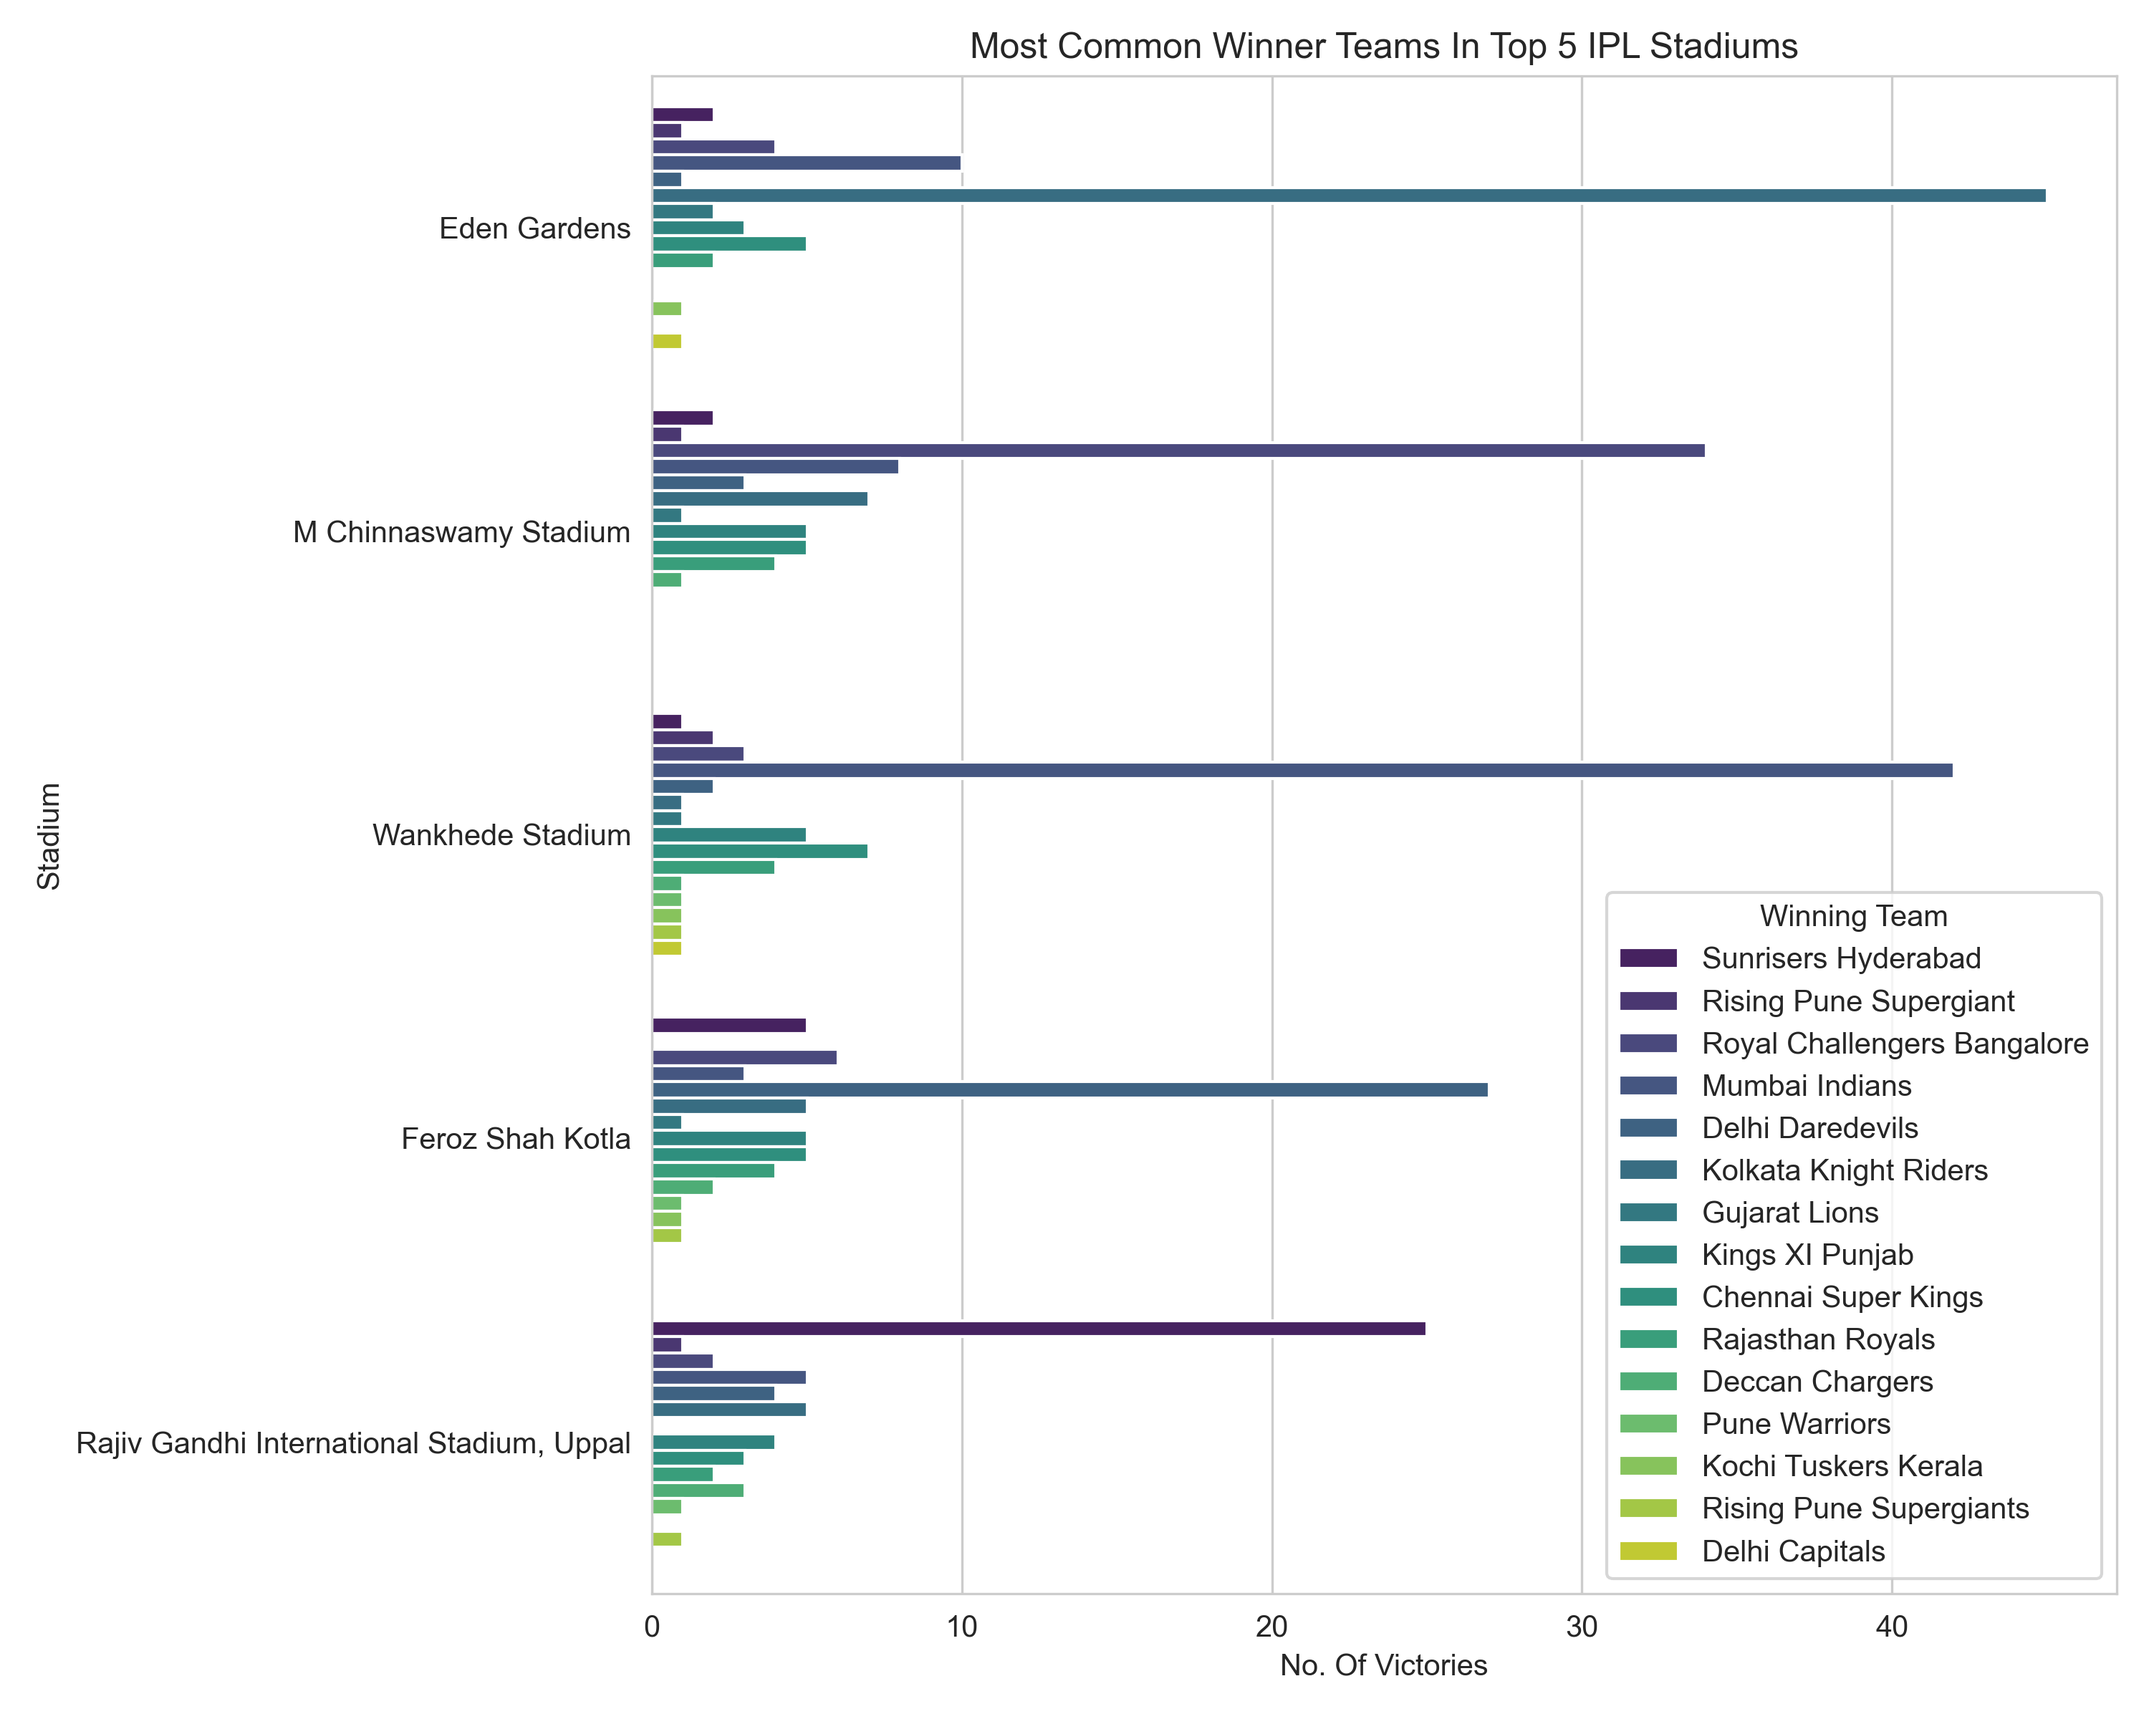
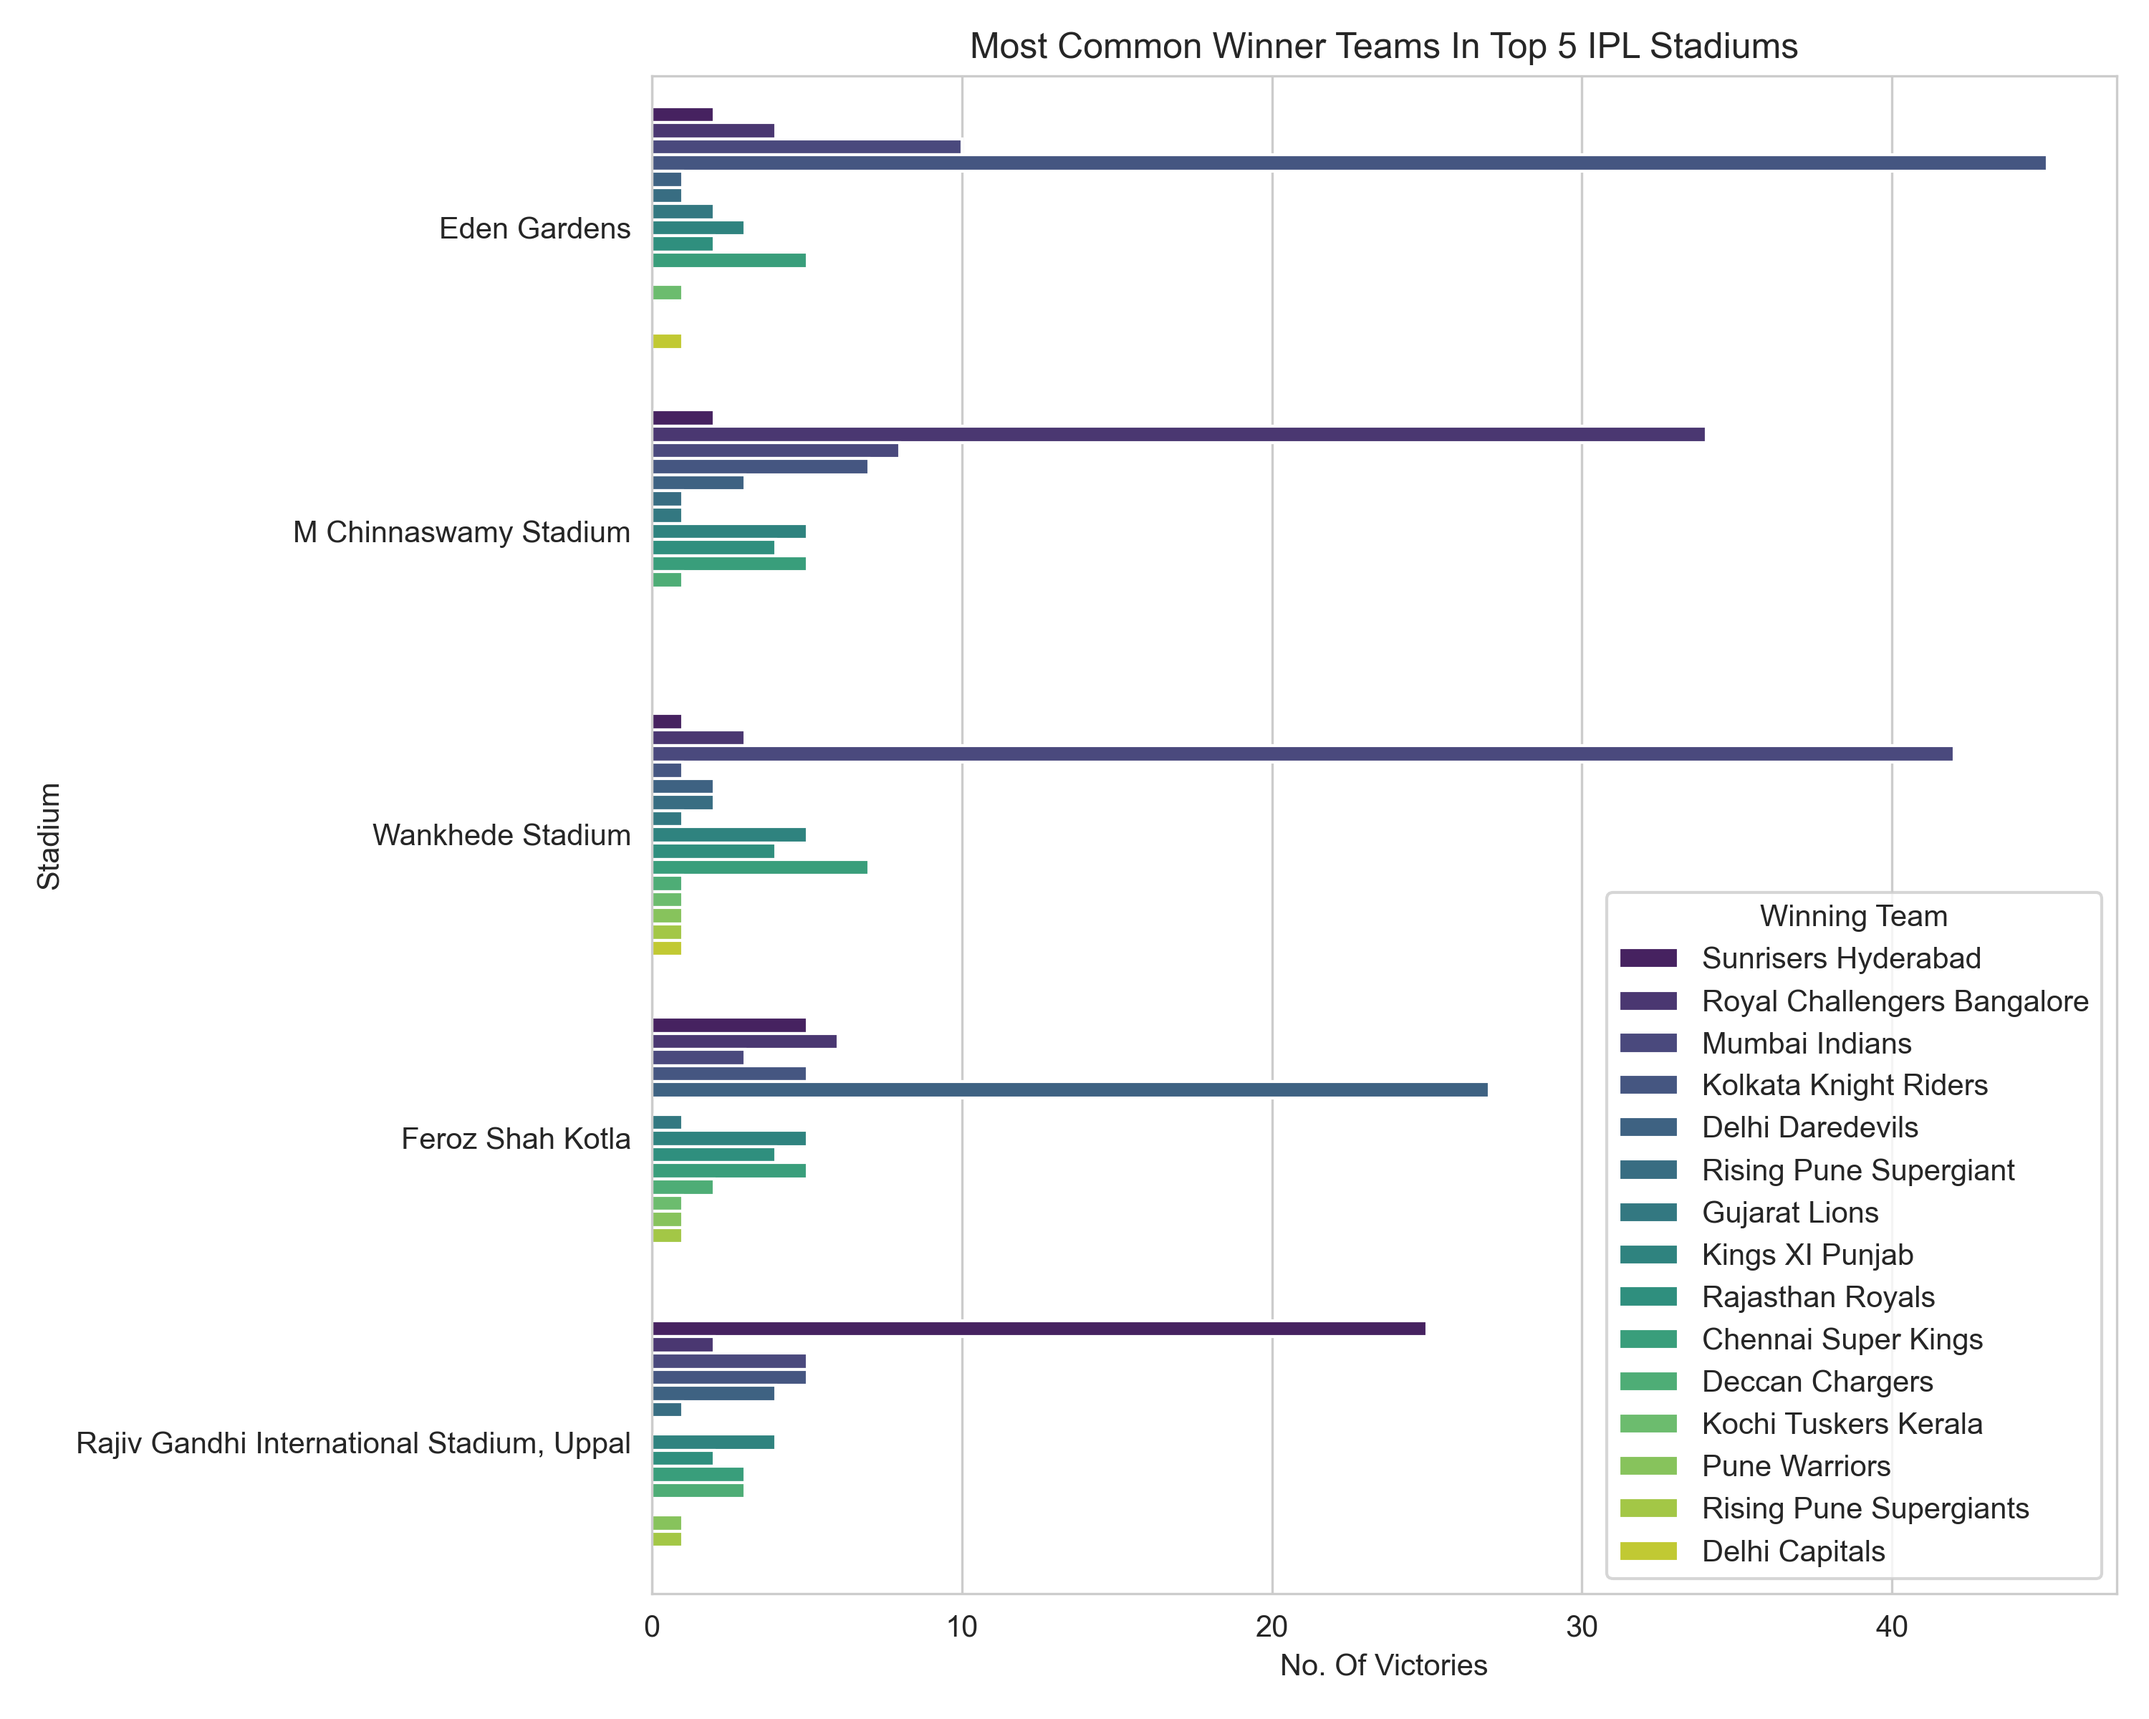
Bowler Analysis Complete

diff --git a/Data-Analysis.py b/Data-Analysis.py
@@ -1,4 +1,5 @@
 import pandas as pd
+import numpy as np
 import matplotlib.pyplot as plt
 import seaborn as sns
 import os
@@ -15,7 +16,7 @@ def Data_Assessment():
     print(file1.isnull().sum()) #Null values present in player_dismissed,dismissal_kind and fielder.
     print(file2.isnull().sum()) #Null values present in city,winner,umpire1,umpire2,umpire3.
     print(file1[file1.duplicated()]) #No Major duplicates out of more than 20000 matches few coincidences can be neglected.
-    print(file2[file1.duplicated()]) #No Duplicates at all.
+    print(file2[file2.duplicated()]) #No Duplicates at all.
 def Match_Analysis():
     plt.figure(figsize=(10,8))
     sns.set_style("whitegrid")
@@ -72,7 +73,7 @@ def Batting_Analysis():
     plt.figure(figsize=(10,8))
     top_batsmen = (file1.groupby("batsman")["batsman_runs"].sum().sort_values(ascending=False).reset_index().head(5))
     sns.barplot(data=(top_batsmen),y="batsman",x="batsman_runs",hue="batsman",palette="viridis")
-    plt.title("Top 10 Run Scorers In IPL")
+    plt.title("Top 5 Run Scorers In IPL")
     plt.xlabel("Runs Scored")
     plt.ylabel("Batsman")
     plt.savefig(os.path.join(save,"Top_runscorer.png"),dpi=300)
@@ -105,6 +106,40 @@ def Batting_Analysis():
     plt.tight_layout()
     plt.savefig(os.path.join(save,"Top_Battsman_Playingmostballs.png"),dpi=300)
     plt.show()
+def Bowling_Analysis():
+    sns.set_style("whitegrid")
+    plt.figure(figsize=(10,8))
+    file1["out"]=file1["player_dismissed"]!=np.nan
+    Wicket_Takers=(file1.groupby("bowler")["out"].sum().sort_values(ascending=False).head(10))
+    sns.barplot(data=(Wicket_Takers.reset_index()),y="bowler",x="out",hue="bowler",palette="viridis")
+    plt.title("Top 10 Wicket Takers Of IPL")
+    plt.xlabel("Wickets Taken")
+    plt.ylabel("Bowler")
+    plt.tight_layout()
+    plt.savefig(os.path.join(save, "TOP10_Bowlers.png"),dpi=300)
+    plt.show()
+    top_bowler = (file1.groupby("bowler")["total_runs"].sum().sort_values(ascending=True).reset_index().head(5))
+    sns.barplot(data=(top_bowler),y="bowler",x="total_runs",hue="bowler",palette="viridis")
+    plt.title("Top 5 Most Economical Bowlers In IPL")
+    plt.xlabel("Runs Scored")
+    plt.ylabel("Bowler")
+    plt.savefig(os.path.join(save,"Top_Economical_Bowlers.png"),dpi=300)
+    plt.show()
+    top_bowlerex = (file1.groupby("bowler")["total_runs"].sum().sort_values(ascending=False).reset_index().head(5))
+    sns.barplot(data=(top_bowlerex),y="bowler",x="total_runs",hue="bowler",palette="viridis")
+    plt.title("Top 5 Most Expensive Bowlers In IPL")
+    plt.xlabel("Runs Scored")
+    plt.ylabel("Bowler")
+    plt.savefig(os.path.join(save,"Top_Expensive_Bowlers.png"),dpi=300)
+    plt.show()
+    topb=file1["bowler"].value_counts().head(10).index
+    sns.countplot(data=file1[file1["bowler"].isin(topb)],y="bowler",order=topb,hue="bowler",legend=False,palette="viridis")
+    plt.title("Top 10 Bowlers Who Played Most Of The Balls In IPL")
+    plt.xlabel("Balls Played")
+    plt.ylabel("Bowler")
+    plt.tight_layout()
+    plt.savefig(os.path.join(save,"Top_Bowlers.png"),dpi=300)
+    plt.show()
 def Team_Analysis():
     sns.set_style("whitegrid")
     plt.figure(figsize=(10,8))
@@ -136,11 +171,11 @@ def Comparative_Analysis():
     plt.ylabel("Stadium")
     plt.legend(title="Decision")
     plt.tight_layout()
-    plt.savefig(os.path.join(save,"Stadium-Toss_Decision"),dpi=300)
+    plt.savefig(os.path.join(save,"Stadium-Toss_Decision.png"),dpi=300)
     plt.show()
     tops5=file2["venue"].value_counts().head(5).index
     plt.figure(figsize=(10,8))
-    sns.countplot(data=file2[file2["venue"].isin(tops)],y="venue",hue="winner",order=tops5,palette="viridis")
+    sns.countplot(data=file2[file2["venue"].isin(tops5)],y="venue",hue="winner",order=tops5,palette="viridis")
     plt.title("Most Common Winner Teams In Top 5 IPL Stadiums")
     plt.xlabel("No. Of Victories")
     plt.ylabel("Stadium")
@@ -160,5 +195,6 @@ def Comparative_Analysis():
 Data_Assessment()
 Match_Analysis()
 Batting_Analysis()
+Bowling_Analysis()
 Team_Analysis()
 Comparative_Analysis()
